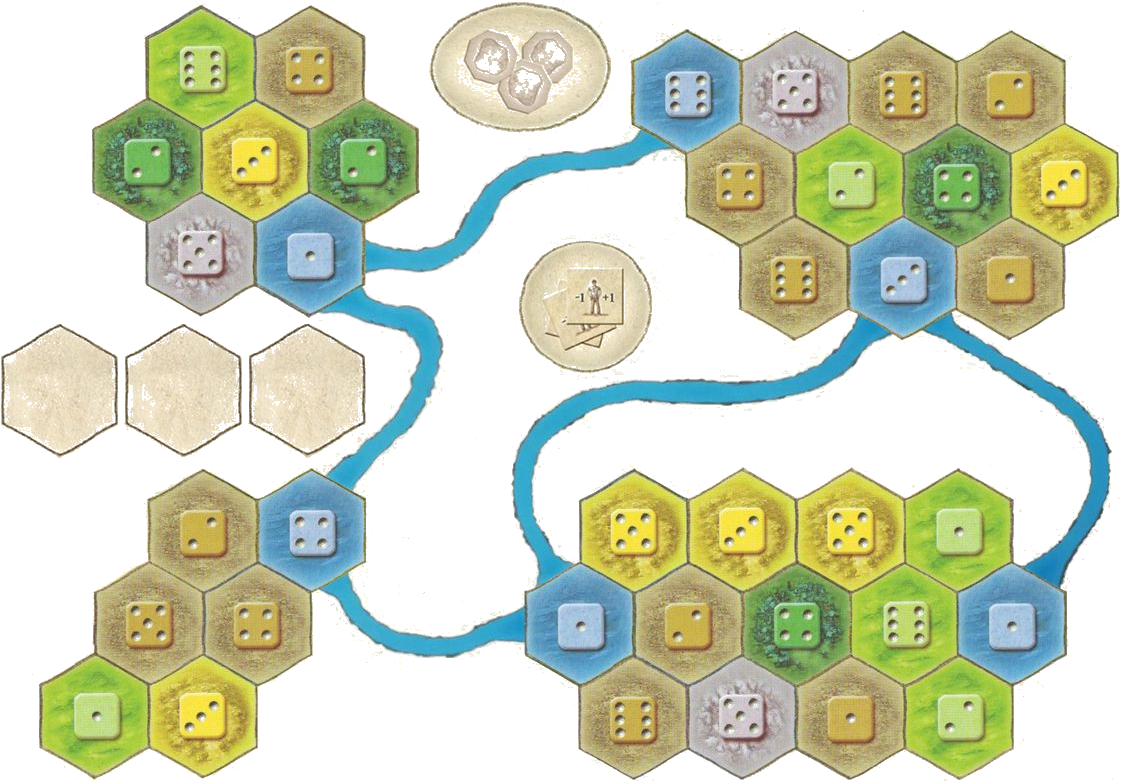
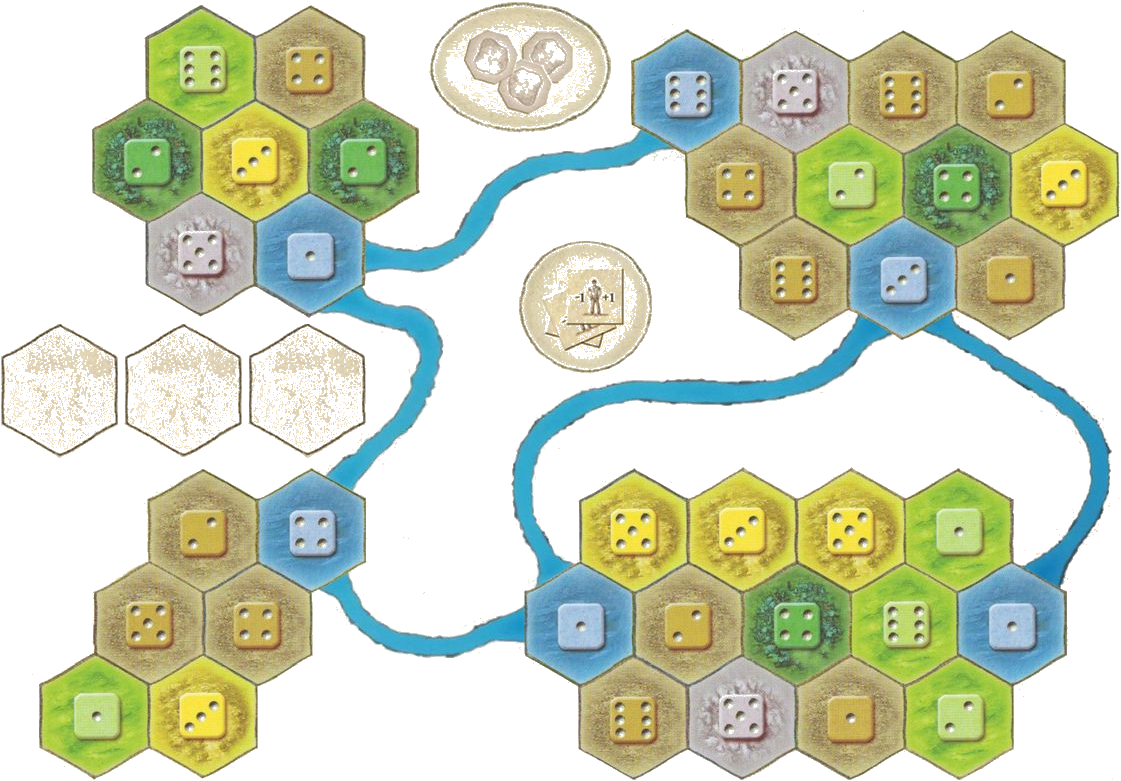
q

diff --git a/src/board/Board.java b/src/board/Board.java
@@ -16,8 +16,7 @@ public class Board implements EventHandlerAble {
 
 	private void createBoard() {
 
-//		this.imageView = new ImageView("boards/aT.png", this);
-		this.imageView = new ImageView("boards/aTnew.png", this);
+		this.imageView = new ImageView("boards/aTrans.png", this);
 		this.imageView.relocate(Dimensions.GAP_BETWEEN_BORDERS.x(), Dimensions.GAP_BETWEEN_BORDERS.y());
 
 	}
